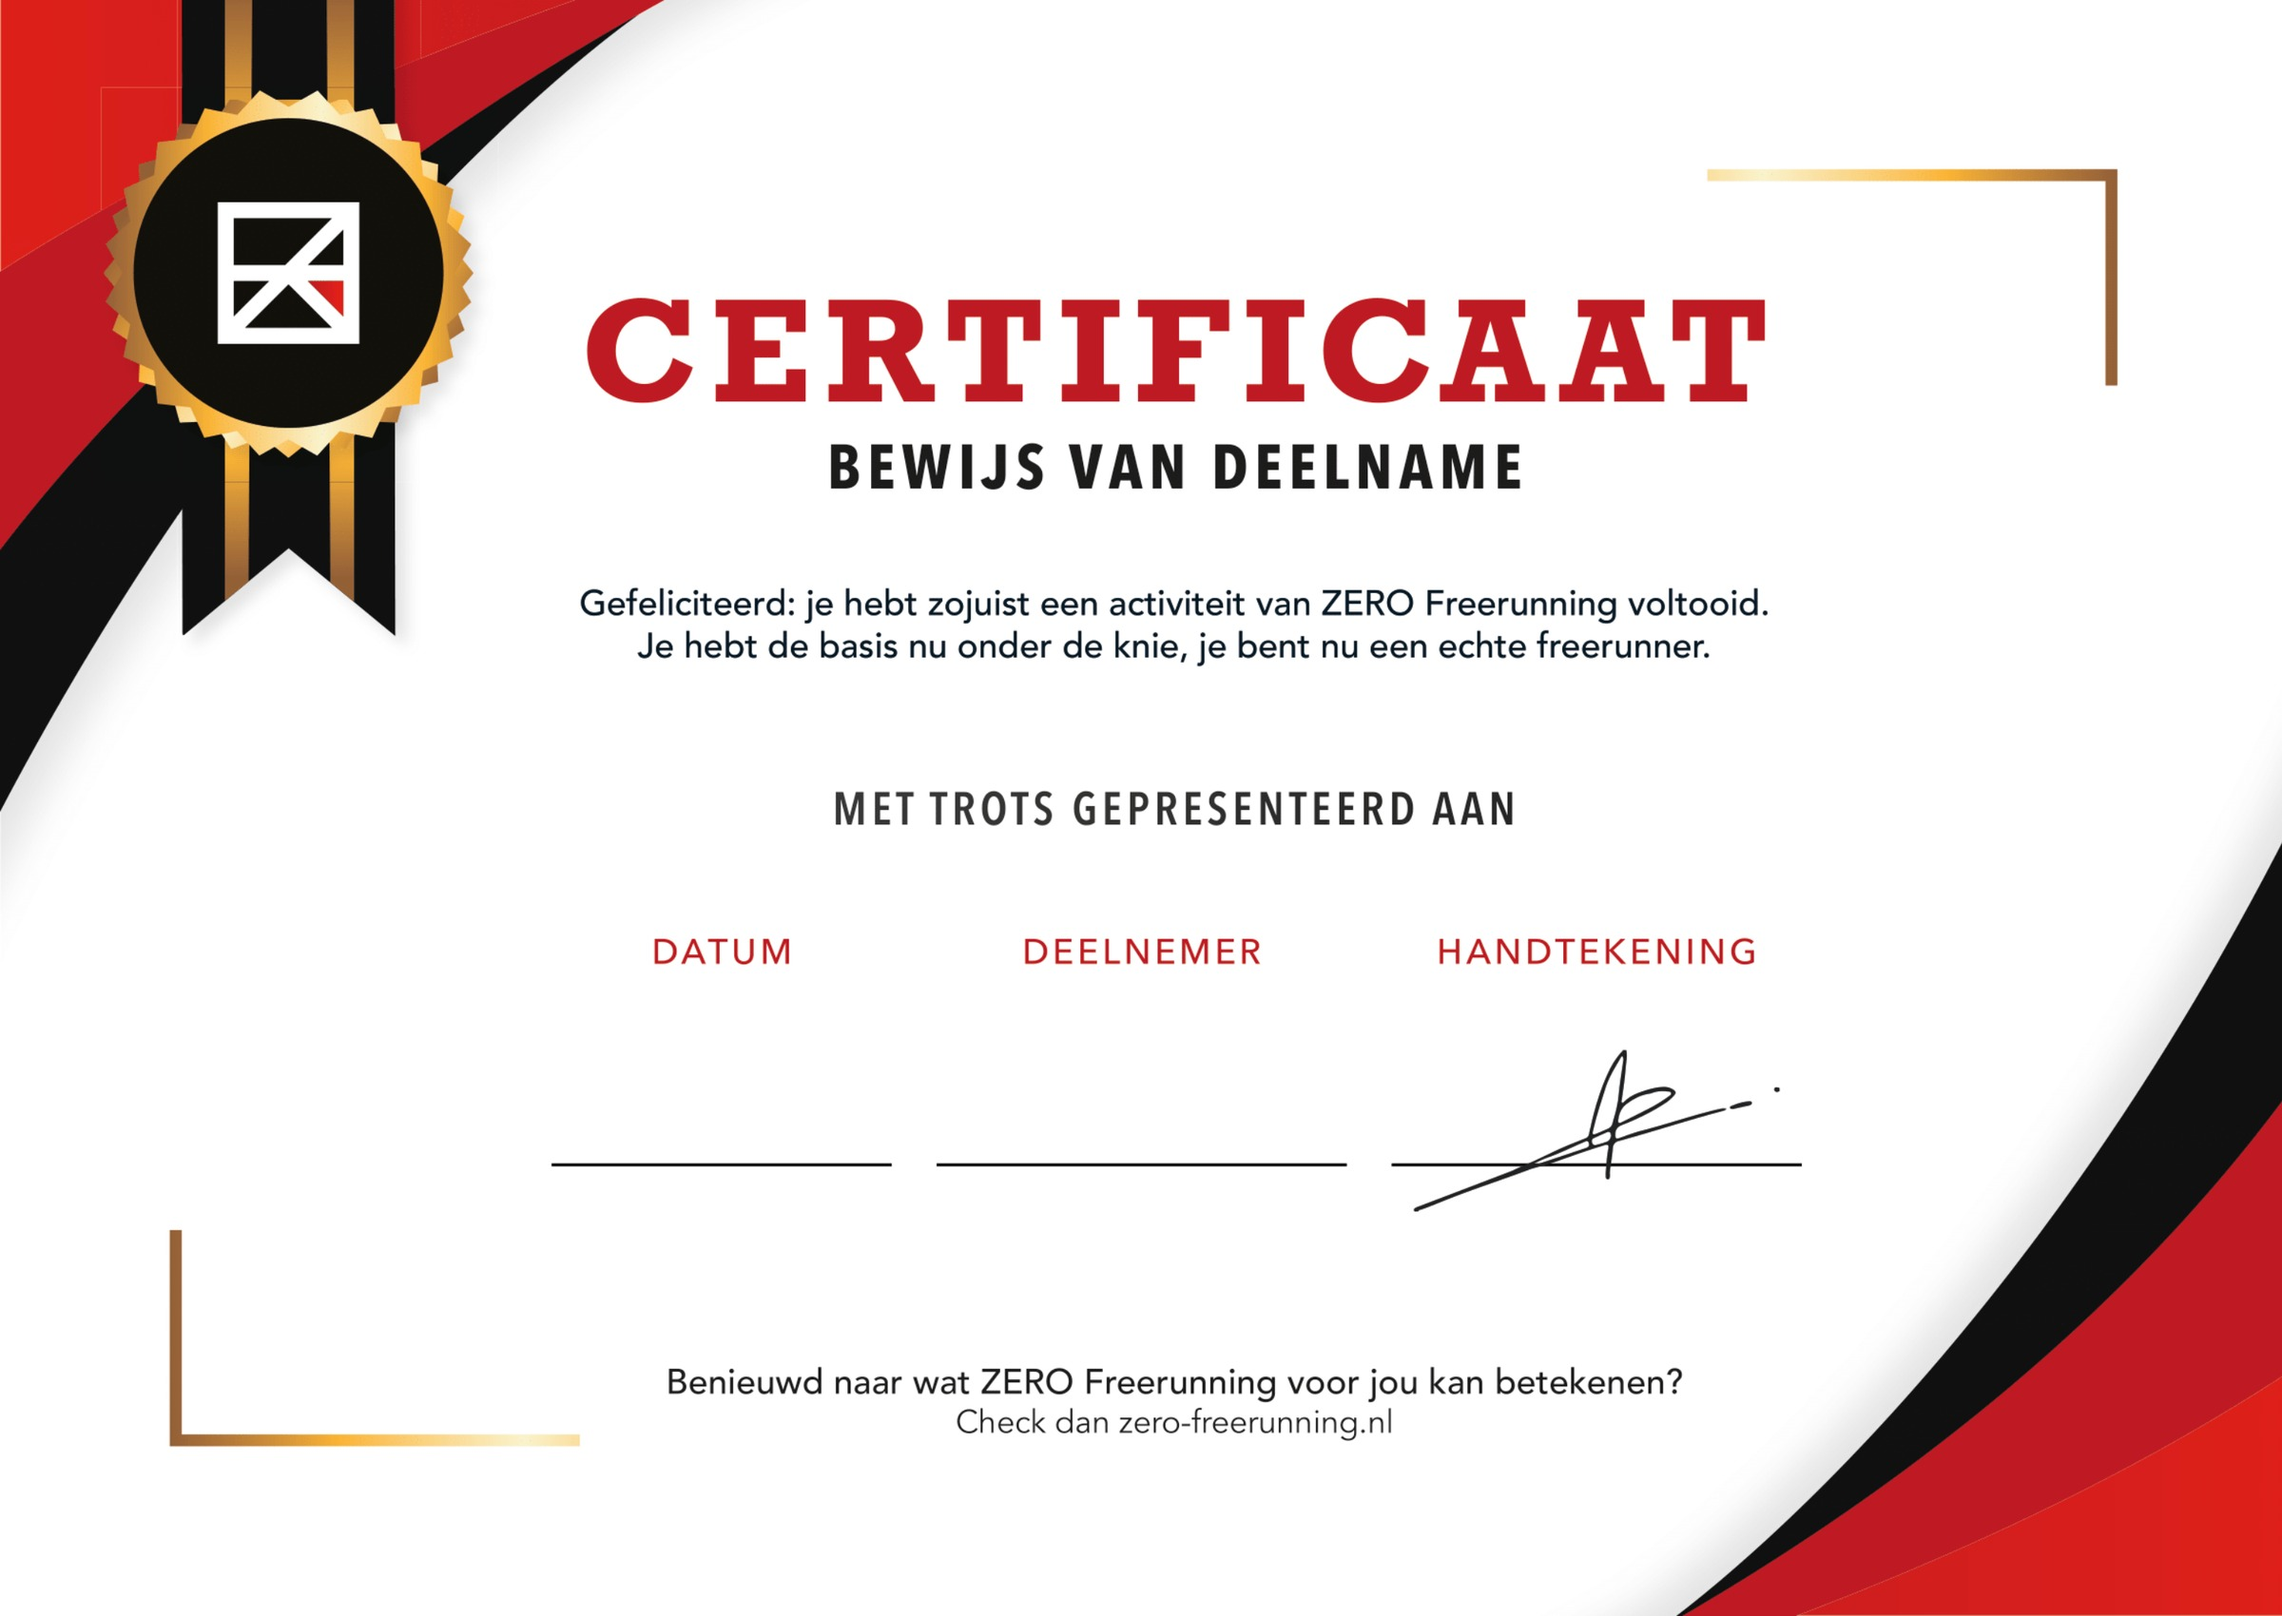
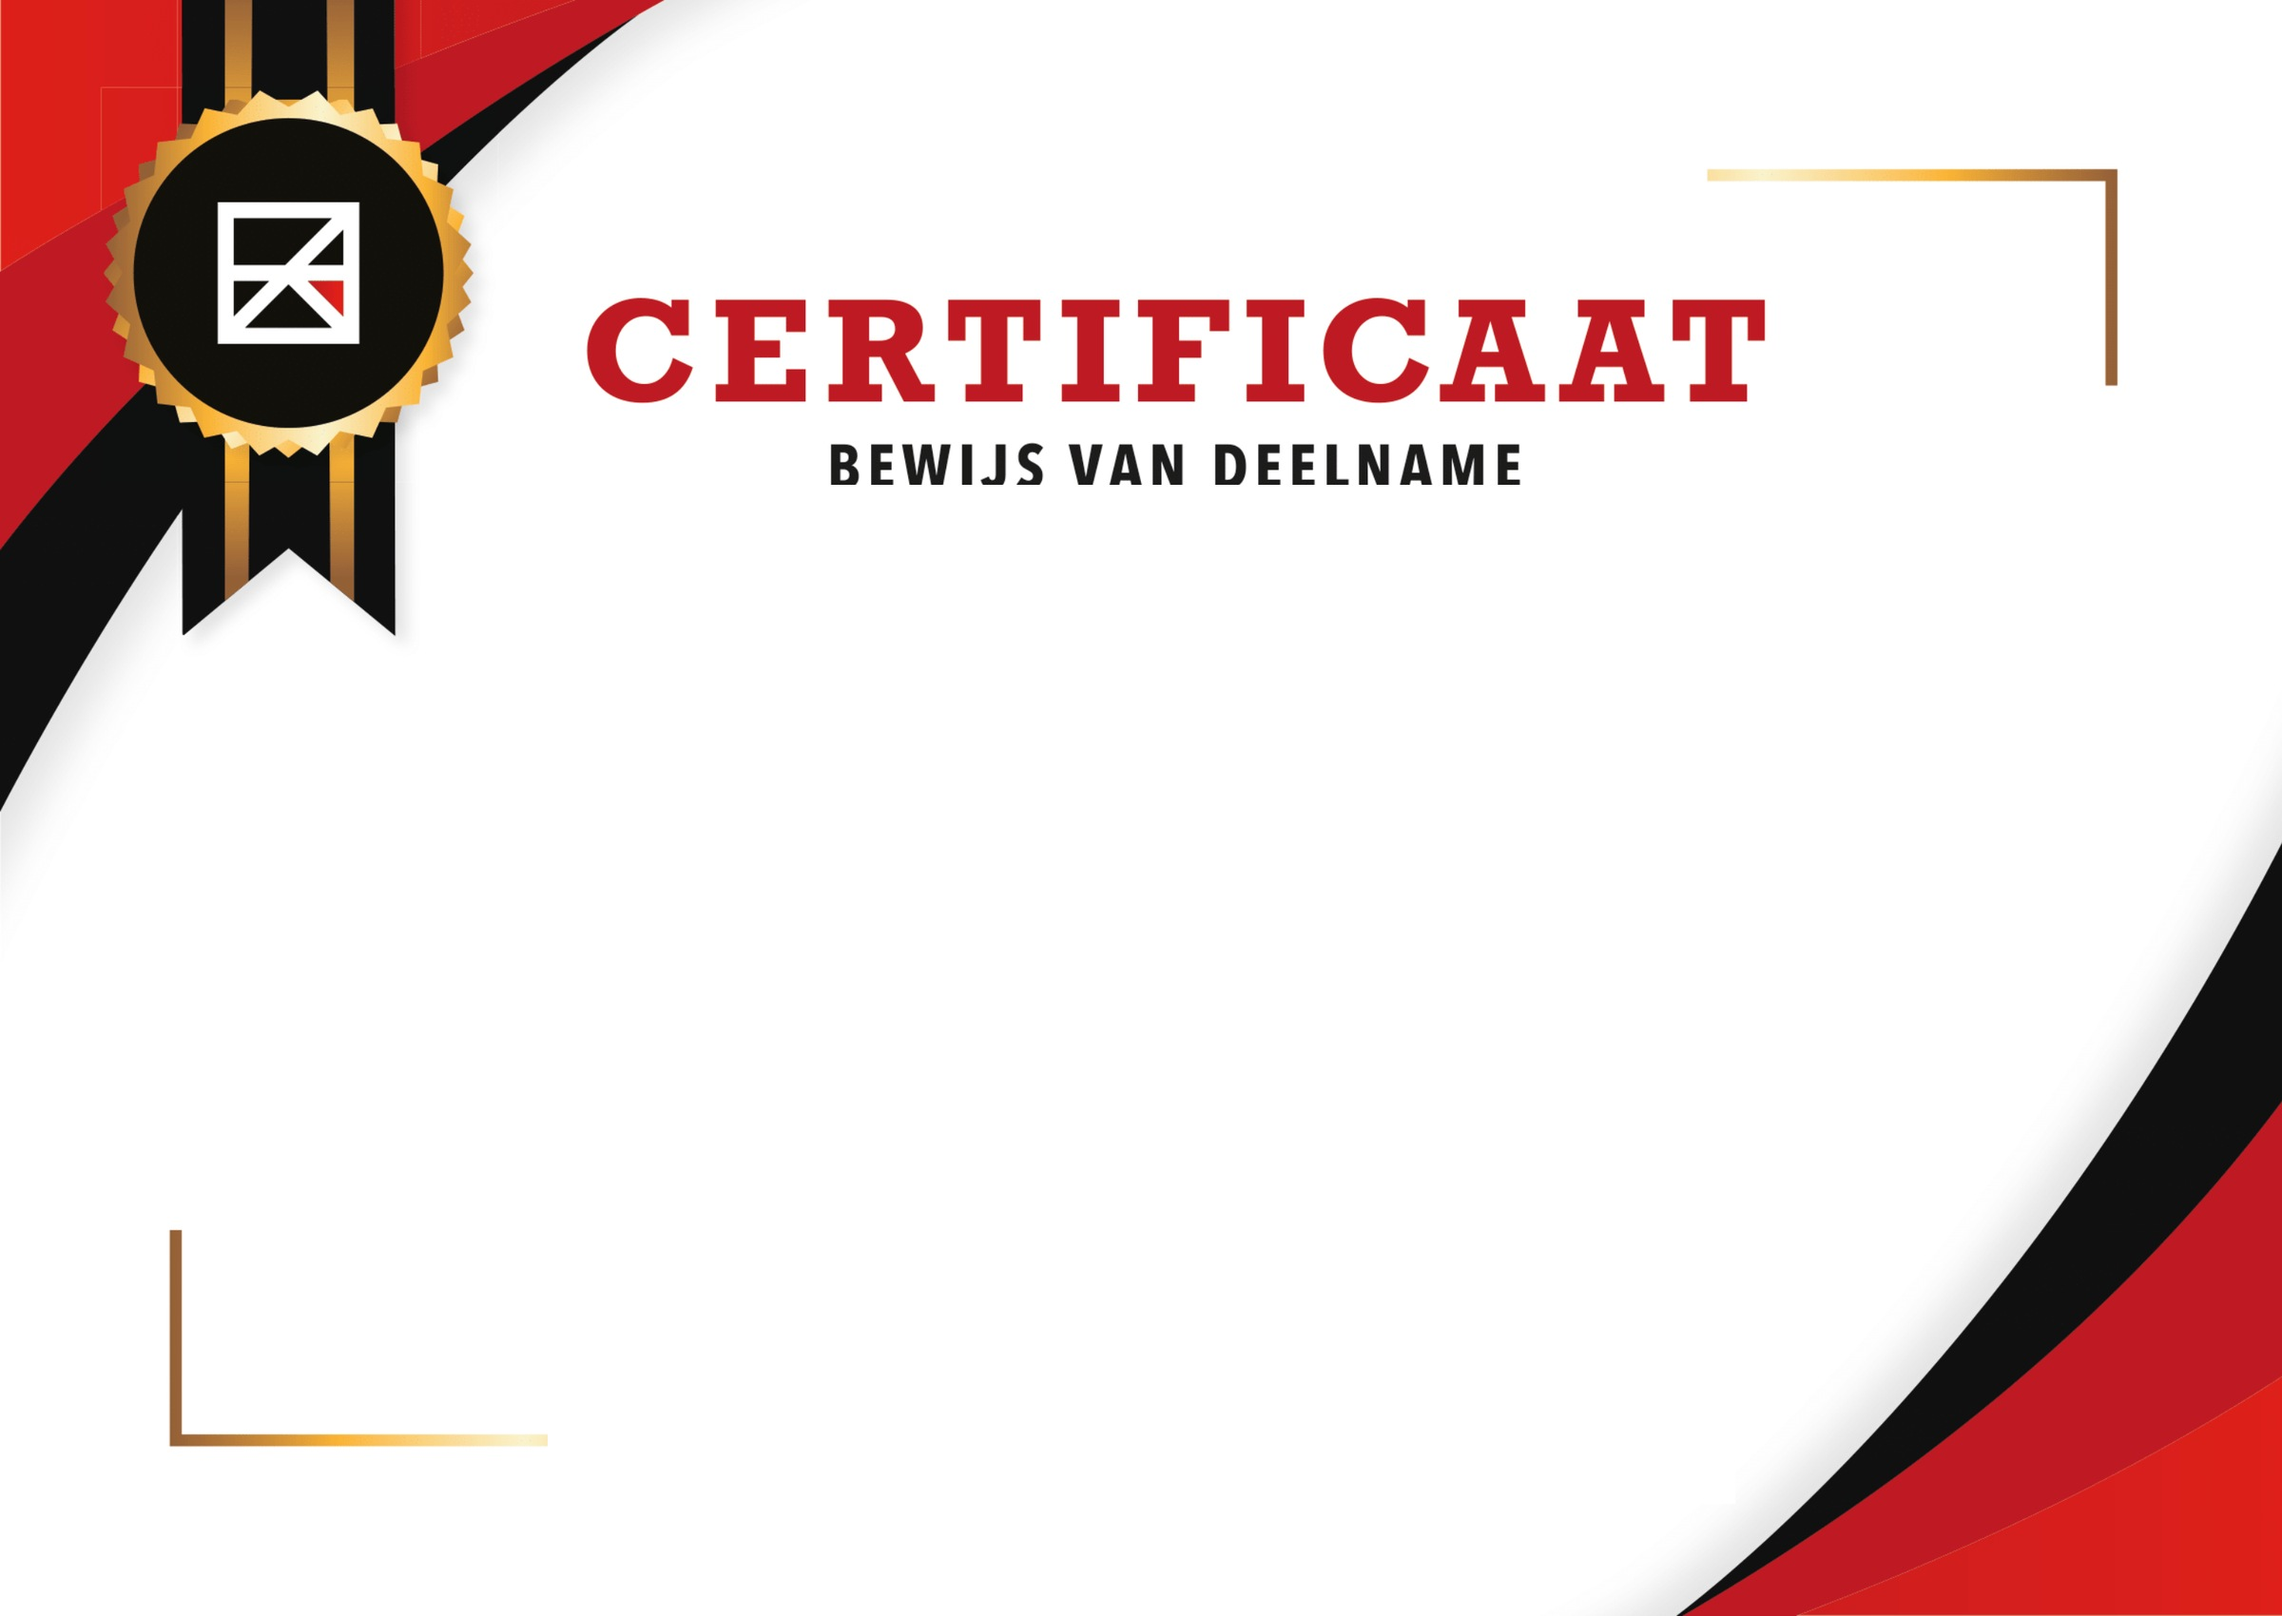
Sync schone versie: geen maskers, geen QR, schone bg

diff --git a/certificaat.css b/certificaat.css
@@ -292,46 +292,25 @@ html, body {
   z-index: 0;
 }
 
-.energy-overlay {
-  position: absolute;
-  inset: 0;
-  width: 100%;
-  height: 100%;
-  z-index: 1;
-  pointer-events: none;
-}
 
-/* Extra white veil over old DATUM/DEELNEMER/HANDTEKENING print */
-.field-mask {
-  position: absolute;
-  z-index: 2;
-  left: 18%;
-  width: 64%;
-  top: 64%;
-  height: 14%;
-  background: #ffffff;
-  border-radius: 4px;
-  pointer-events: none;
-}
 
 .content-panel {
   position: absolute;
   z-index: 3;
-  left: 18%;
-  width: 64%;
-  top: 28%;
-  height: 50%;
-  background: #ffffff;
-  border-radius: 6px;
-  /* Geen witte glow over gouden randen / seal / swoosh */
+  left: 20%;
+  width: 60%;
+  top: 31%;
+  height: 46%;
+  background: transparent;
+  border-radius: 0;
   box-shadow: none;
   display: flex;
   flex-direction: column;
   align-items: center;
   justify-content: flex-start;
   text-align: center;
-  padding: 2% 3% 1.4%;
-  overflow: hidden;
+  padding: 1% 2% 0.5%;
+  overflow: visible;
 }
 
 .cert-intro {
@@ -449,23 +428,24 @@ html, body {
   font-style: normal;
 }
 
+
 /* Bottom CTA band */
 .cta-block {
   position: absolute;
   z-index: 4;
-  left: 26%;
-  right: 10%;
-  bottom: 4%;
+  left: 28%;
+  right: 24%;
+  bottom: 5%;
   height: auto;
-  min-height: 11%;
+  min-height: 0;
   display: flex;
   align-items: center;
   justify-content: center;
   gap: 0;
-  background: #ffffff;
-  border-radius: 6px;
+  background: transparent;
+  border-radius: 0;
   box-shadow: none;
-  padding: 1.1% 1.8%;
+  padding: 0;
 }
 
 .cta-copy {
@@ -570,6 +550,7 @@ html, body {
     justify-content: flex-start;
     gap: 0.12em;
     overflow: visible;
+    background: transparent;
     box-shadow: none;
   }
 
@@ -587,8 +568,8 @@ html, body {
   .coach-quote { margin-top: 0.25em; flex-shrink: 0; }
 
   .cta-block {
-    left: 22%;
-    right: 8%;
+    left: 24%;
+    right: 18%;
     width: auto;
     bottom: 3.5%;
     padding: 1.1% 1.4%;

diff --git a/index.html b/index.html
@@ -90,27 +90,7 @@
     <article class="certificate" id="certificate" aria-label="Certificaat ZERO Freerunning">
       <img class="cert-bg" src="certificaat-bg.jpg" alt="" />
 
-      <!-- Subtle energy overlays -->
-      <svg class="energy-overlay" viewBox="0 0 1000 700" aria-hidden="true" focusable="false">
-        <g opacity="0.12" stroke="#C02026" stroke-width="2" fill="none">
-          <path d="M720 90 L860 40" />
-          <path d="M740 120 L900 80" />
-          <path d="M760 150 L920 130" />
-        </g>
-        <g opacity="0.10" fill="#111">
-          <polygon points="820,200 845,215 820,230 795,215" />
-          <rect x="870" y="250" width="36" height="10" transform="rotate(-18 888 255)" />
-          <rect x="890" y="275" width="28" height="8" transform="rotate(-18 904 279)" />
-        </g>
-        <g opacity="0.08" stroke="#C02026" stroke-width="3" fill="none">
-          <path d="M60 480 C120 450, 160 520, 220 490" />
-          <path d="M80 520 C140 490, 180 560, 240 530" />
-        </g>
-      </svg>
-
-      <div class="field-mask" aria-hidden="true"></div>
-
-      <!-- White content panel covering old body/footer print -->
+      <!-- Content overlays (geen wit masker over het ontwerp) -->
       <div class="content-panel">
         <p class="cert-intro" id="out-intro">Dit certificaat is met trots uitgereikt aan</p>
         <h2 class="cert-name" id="out-naam" aria-live="polite"></h2>
